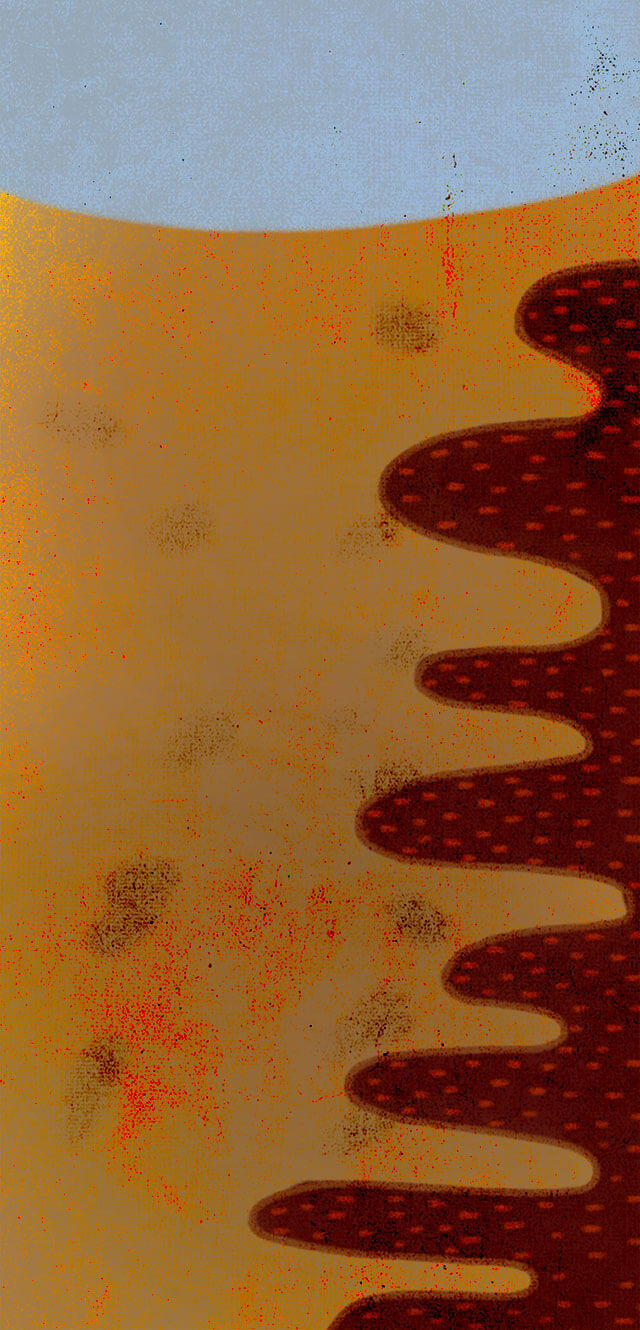
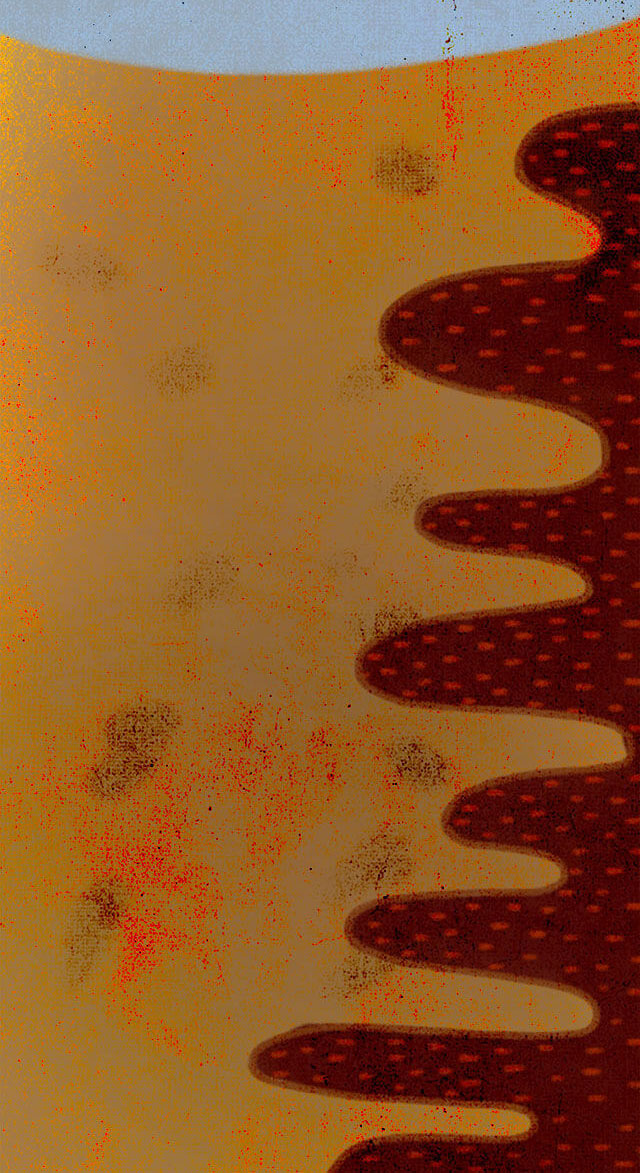
update last page

diff --git a/js/main.js b/js/main.js
@@ -87,13 +87,14 @@ var loaderAssets = [
   "window.png",
   "scene-8-light-1.png",
   "poster.jpg",
-  "scene-10-be.png",
   "scene-10-bg.jpg",
-  "scene-10-continue.png",
-  "scene-10-smoke.png",
   "scene-10-text.png",
-  "scene-10-to.png",
-  "scene-10-tube.png"
+  "scene-10-word-1.png",
+  "scene-10-word-2.png",
+  "scene-10-word-3.png",
+  "scene-10-word-4.png",
+  "scene-10-word-5.png",
+  "scene-10-word-6.png"
 ];
 var SOLWAY = window.SOLWAY || {};
 SOLWAY.Scene = [];
@@ -103,7 +104,7 @@ var container; // 舞台容器
 var scroller; // 滚动模块
 var firedEvents = []; // 记录场景进度
 var clickGroup; // 可点击层
-var stages = [1355, 575, 1185, 1270, 1118, 1329, 2040, 3150, 1330, 1075]; // 场景节点
+var stages = [1355, 575, 1185, 1270, 1118, 1329, 2040, 3150, 1173, 1075]; // 场景节点
 var tapping = false; // 是否点击
 var windowHeight = window.innerHeight;
 
@@ -1119,12 +1120,12 @@ SOLWAY.Scene[8] = (function() {
     bg = createSprite("scene-9-bg.jpg", { x: 0, y: 0 });
     banner = createSprite("scene-9-banner.png", {
       x: 431,
-      y: 56,
+      y: 56-157,
       interactive: true
     });
-    people = createSprite("scene-9-people.png", { x: 0, y: 194 });
-    text = createSprite("text-9-1.png", { x: 26, y: 463, alpha: 0 });
-    hint = createHintContainer({ x: 464, y: 35 });
+    people = createSprite("scene-9-people.png", { x: 0, y: 194-157, interactive: true });
+    text = createSprite("text-9-1.png", { x: 26, y: 463-157, alpha: 0 });
+    hint = createHintContainer({ x: 340, y: 35-157+40 });
 
     // reset state
     banner.x += 0.5 * banner.width;
@@ -1161,6 +1162,9 @@ SOLWAY.Scene[8] = (function() {
     banner.on("pointertap", function() {
       showVideo("8.mp4");
     });
+    people.on("pointertap", function() {
+      showVideo("8.mp4");
+    });
     hint.on("pointertap", function() {
       showVideo("8.mp4");
     });
@@ -1175,29 +1179,31 @@ SOLWAY.Scene[8] = (function() {
 
 // -----------------场景10----------------- //
 SOLWAY.Scene[9] = (function() {
-  var scene, bg, be, contnue, smoke, text, to, tube;
+  var scene, bg, text, word1, word2, word3, word4, word5, word6;
 
   function init() {
     scene = createContainer({ x: 0, y: stagePosition(9) });
     bg = createSprite("scene-10-bg.jpg", { x: 0, y: 0 });
-
-    to = createSprite("scene-10-to.png", { x: 291, y: 67, alpha: 0 });
-    be = createSprite("scene-10-be.png", { x: 302, y: 270, alpha: 0 });
-    contnue = createSprite("scene-10-continue.png", { x: 298, y: 445, alpha: 0 });
-    smoke = createSprite("scene-10-smoke.png", { x: 420, y: 684, alpha: 0 });
+    word1 = createSprite("scene-10-word-1.png", { x:305, y:123, alpha:0 });
+    word2 = createSprite("scene-10-word-2.png", { x:301, y:273, alpha:0 });
+    word3 = createSprite("scene-10-word-3.png", { x:305, y:390, alpha:0 });
+    word4 = createSprite("scene-10-word-4.png", { x:317, y:518, alpha:0 });
+    word5 = createSprite("scene-10-word-5.png", { x:310, y:635, alpha:0 });
+    word6 = createSprite("scene-10-word-6.png", { x:311, y:766, alpha:0 });
     text = createSprite("scene-10-text.png", { x: 152, y: 140, alpha: 0 });
-    tube = createSprite("scene-10-tube.png", { x: 299, y: 706, alpha: 0 });
 
     // reset state
     text.x -= 20;
-    to.x += 40;
-    be.x += 40;
-    contnue.x += 40;
-    tube.x += 40;
+    word1.x += 40;
+    word2.x += 40;
+    word3.x += 40;
+    word4.x += 40;
+    word5.x += 40;
+    word6.x += 40;
 
     // add sprite to container
     // add containers to scene
-    scene.addChild(bg, be, contnue, smoke, text, to, tube);
+    scene.addChild(bg, text, word1, word2, word3, word4, word5, word6);
     // bind events
     bindEvents();
     // return scene
@@ -1205,30 +1211,20 @@ SOLWAY.Scene[9] = (function() {
   }
 
   function anim() {
-    setTimeout(function() {
-      smoke.alpha = 1;
-    }, 1600)
   }
 
   function customAnim() {
 
     TweenMax.staggerTo(
-      [to, be, contnue, tube],
+      [word1, word2, word3, word4, word5, word6],
       0.5,
       { alpha: 1, x: "-=40", ease: Back.easeInOut },
       0.2
     );
-    // TweenMax.from(button, 0.5, { x: "-=20", alpha: 0 }).delay(.5);
     TweenMax.to(text, 0.8, {
       x: "+=20",
       alpha: 1
-    }).delay(0.8);
-    TweenMax.to(smoke, 2, {
-      x: "+=60",
-      alpha: 0,
-      scaleY: 1,
-      repeat: -1
-    }).delay(1.6);
+    }).delay(1.2);
   }
 
   function bindEvents() {
